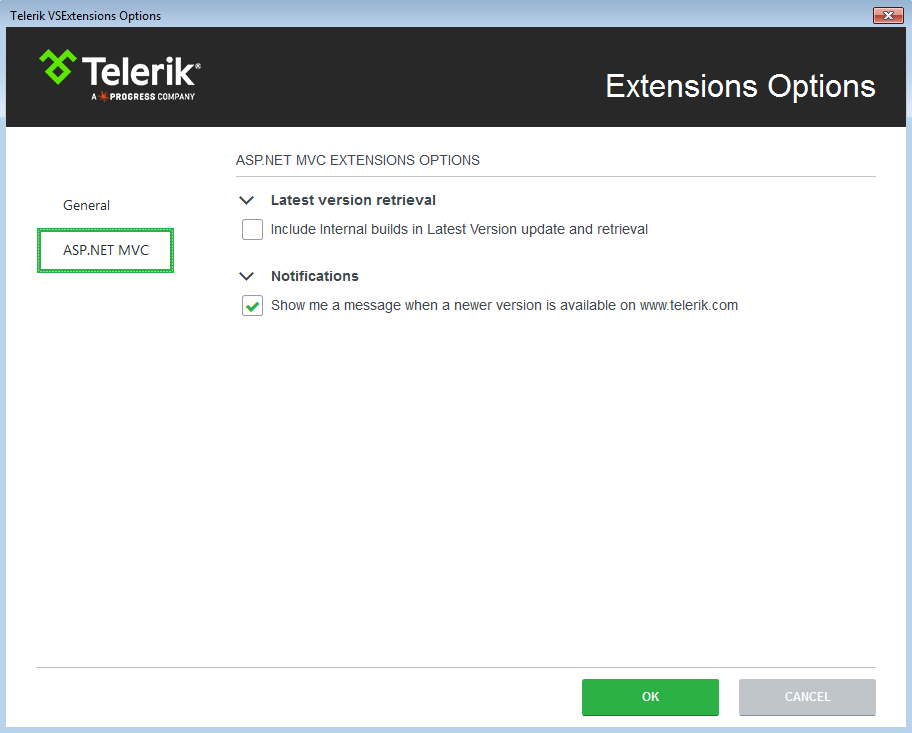
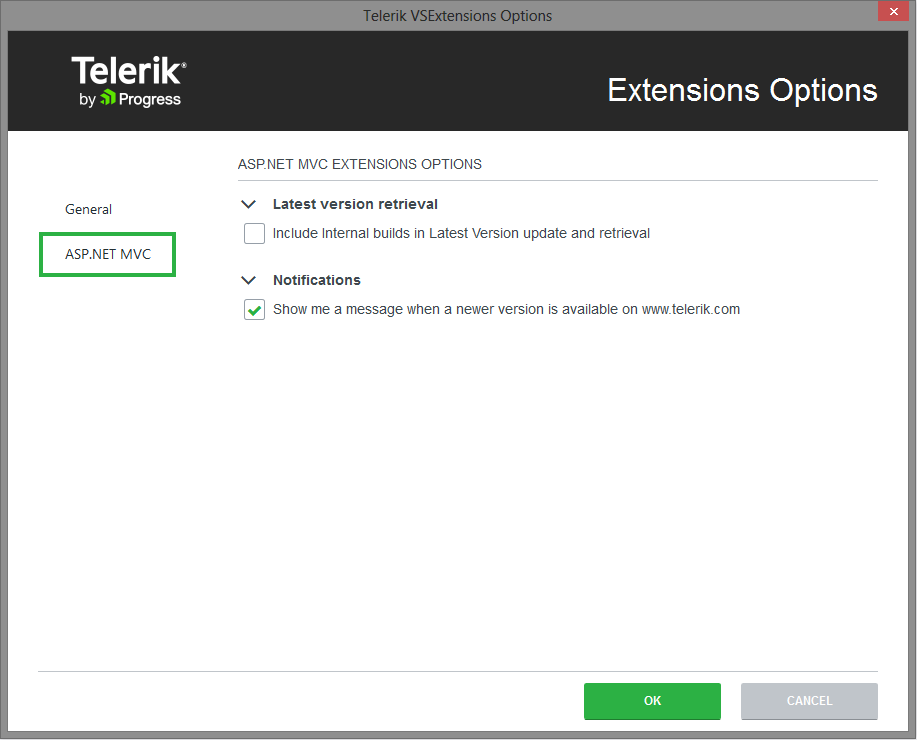
Updated images and text related to MVC VS Extension options

Changed region(s): [[0.0, 0.0, 1.0, 1.0], [0.2456, 0.2101, 0.7061, 0.3302], [0.2456, 0.3602, 0.7982, 0.4502]]

diff --git a/docs/aspnet-mvc/vs-integration/vsextensions-options.md b/docs/aspnet-mvc/vs-integration/vsextensions-options.md
@@ -35,7 +35,7 @@ Set the default value for the **Copy referenced assemblies to solution** option 
 Set the project upgrade notifications for detected local distributions by using the options under the **Project Upgrade Notifications for Detected Local Distributions**:
 
 - **Suggest project upgrades for Telerik product version available on my computer**&mdash;When enabled, you are prompted to upgrade upon opening a project, which is not using the latest version of Telerik products installed on your system.
-- **Suggest upgrades when an equal Dev release detected on projects using a Trial**&mdash;When enabled, you are prompted to upgrade if a licensed version is available on your system, but the current project uses a trial version.
+- **Suggest upgrades when an equal Dev release is detected on projects using a Trial**&mdash;When enabled, you are prompted to upgrade if a licensed version is available on your system, but the current project uses a trial version.
 
 ### Download Folder Selection
 
